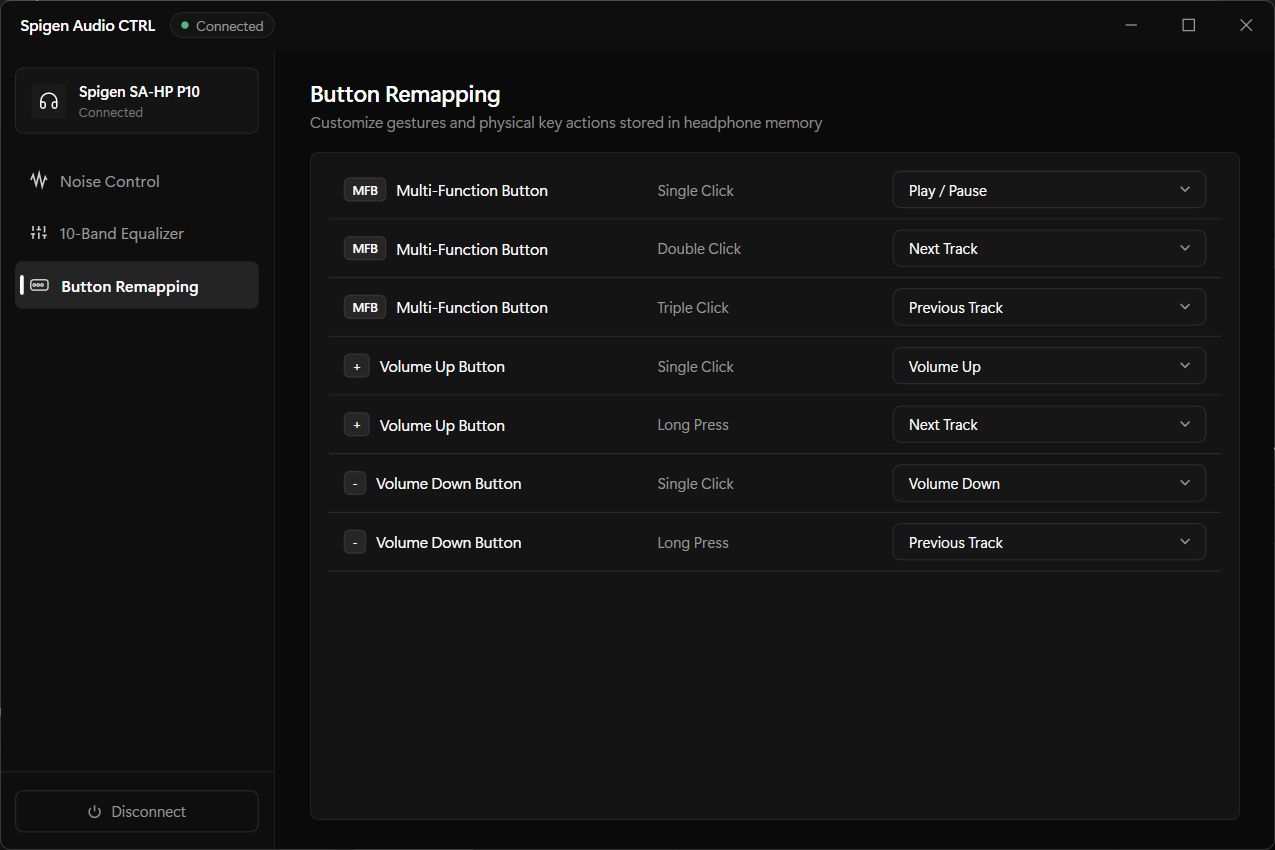
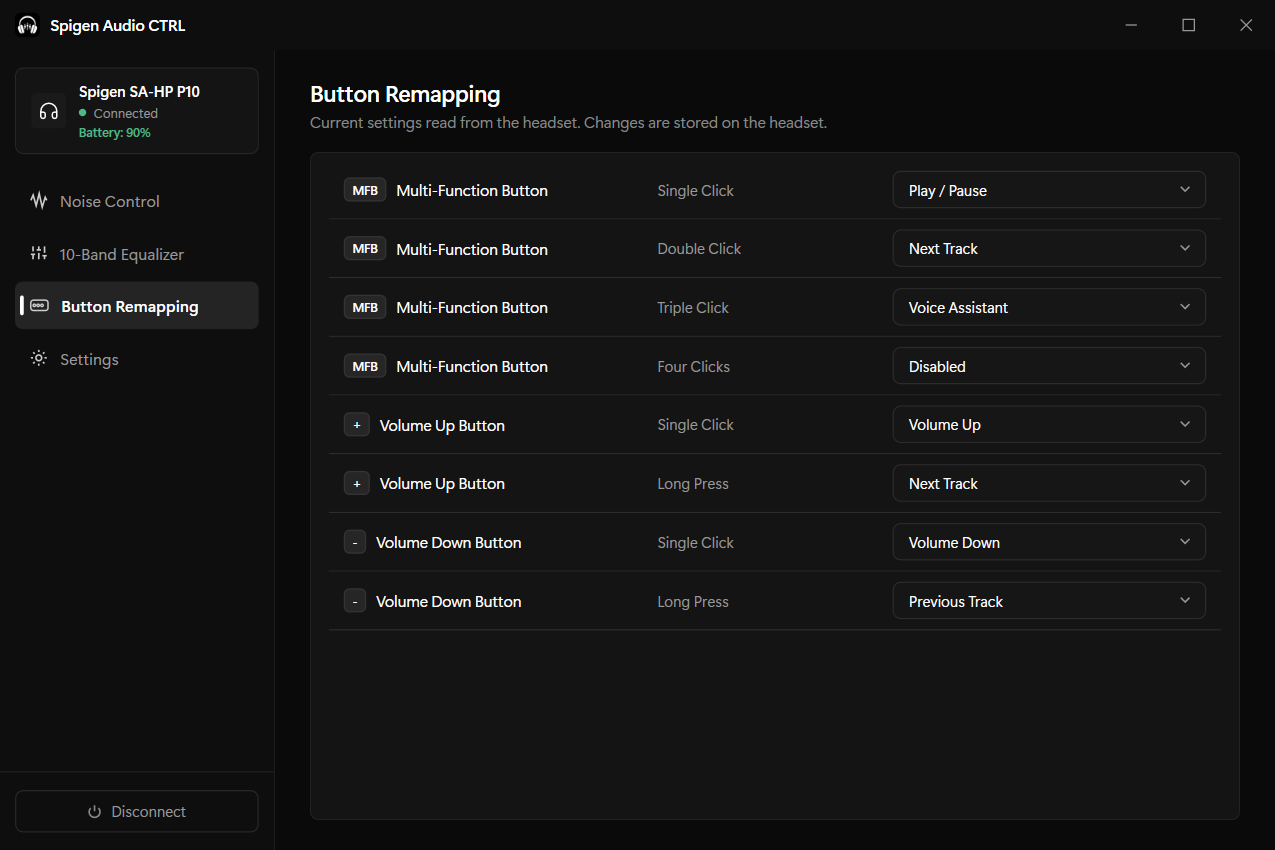
docs: rewrite README for v2 and refresh screenshots
Document the confirmed-state behaviour, full noise control modes, stock-based EQ presets, Find your sound, button remapping, settings, tray and startup, accessibility, the two download variants, CI/signing, the new architecture and the RCSP protocol opcode table. Add Find your sound and Settings screenshots and refresh the existing ones for the new UI.

diff --git a/README.md b/README.md
@@ -10,38 +10,54 @@ An unofficial Windows desktop companion app for the **Spigen SA-HP P10** over-ea
 
 ## Features
 
-**Noise Control**
-- ANC modes: Deep, Adaptive, Commuting, Anti-Wind, Transparency, Off
-- Low-latency Gaming Mode toggle
+**Reads the headset's real state**
+- On connect, the app reads the EQ, noise control mode, gaming mode, button mappings, channel balance, sleep timer and battery from the headset, and shows those, not built-in defaults
+- Every change waits for the headset's confirmation. If a change is rejected or unconfirmed, the app re-reads the headset and shows what it actually has
+- Battery (with charging state), gaming mode, balance and noise control are refreshed every 20 seconds, so changes made with the headset's own buttons show up
 
-**Equalizer & Audiophile Audio Engine**
-- **10-Band Parametric Hardware DSP EQ**: Full control over frequency (20 Hz – 20 kHz), gain (±8 dB), and Q-factor bandwidth ($Q=0.2$ to $5.0$) written directly to headphone memory
-- **Dynamic Anti-Clipping Pre-Amp**: Automatic pre-attenuation calculation ($\min(0\text{ dB}, -\max(\text{Gain}))$) ensuring 100% distortion-free playback with maximum dynamic headroom
-- **Interactive Logarithmic Studio Canvas**: Drag vertically for gain, drag horizontally to sweep center frequency, scroll mouse wheel to widen/narrow Q-factor bandwidth
-- **Selected Band Parametric Inspector**: Fine-tune frequency, gain, and Q-factor sliders with real-time composite filter response curve
-- **Calibrated Audiophile Presets**:
-  - *P10 Audiophile Master (Recommended) — Custom-engineered for P10 hardware: anti-mud cut, pinna gain rise, sibilance taming*
-  - *P10 Dynamic V-Shape Rumble — Sub-bass punch and sparkling air for EDM/Hip-Hop*
-  - *Harman Over-Ear Target 2018 (Benchmark)*
-  - *Diffuse Field Studio Reference*
-  - *Vocal Clarity & Anti-Sibilance (-3.5dB surgical notch at 7.5kHz)*
-  - *Deep Sub-Bass Clean Rumble (45Hz lift with anti-mud cut)*
-  - *Warm Audiophile Soundstage*
-  - *Gaming Spatial & Footstep Enhancement*
-  - *Default Flat (Reference 0dB)*
-- **Harman Target Reference Overlay**: Toggleable visual target curve on the canvas
-- **Custom Preset Storage**: Save, recall, and reset custom parametric tunings
+**Noise Control**
+- Modes: Adaptive, Deep, Commuting, Indoor, Anti-Wind, Transparency, Off
+- Three strength levels for Deep, Commuting and Indoor (the same range Spigen's app offers)
+- Low-latency gaming mode
+
+**Equalizer**
+- 10 peaking filters stored on the headset: frequency 20 Hz to 20 kHz, gain -10 to +8 dB, Q 0.2 to 5.0
+- The headset's custom EQ *replaces* Spigen's built-in tuning instead of stacking on it. Spigen's own presets all re-apply a deep 220 Hz cut against boominess, so the presets here start from that stock tuning:
+  - *Spigen Default, Pop, Bass, Rock, Soft, Classic*: Spigen's presets for this headset
+  - *Signature*: Spigen's tuning refined by about 1 dB (more sub-bass, smoother upper mids, less sibilance, a little air); a judgement call, not a measurement
+  - *Airy, Warm, Relaxed, Vocal, Gaming*: small adjustments on top of Spigen's tuning
+  - *Raw Driver*: no correction, for comparison only
+- **Find your sound**: play any song, then pick between two versions, A and B, that the headset switches between live. Up to 10 choices build a personal curve on top of Spigen's tuning, saved as the "Personal" preset (see [how it works](#find-your-sound))
+- Curve display uses real biquad filter math, with an optional overlay of the stock tuning
+- Automatic headroom: the overall level is lowered by the peak of the combined curve, rounded up to 0.5 dB. For Spigen's default tuning this gives the same -5.5 dB Spigen uses
+- Log-scale frequency control; drag nodes on the curve, scroll to change Q, or use the keyboard
+- Saved presets persist in `%APPDATA%\SpigenAudioCTRL\settings.json`
 
 **Button Remapping**
-- Remap Multi-Function Button: Single, Double, Triple Click
-- Remap Volume keys: Single Click, Long Press
-- Available actions: Play/Pause, Next/Prev Track, Volume, Voice Assistant, Gaming Mode, ANC Cycle
-- Changes are written directly to onboard headphone memory
+- Multi-function button: single, double, triple and four clicks
+- Volume buttons: single click and long press
+- Actions: Play/Pause, Previous/Next Track, Voice Assistant, Volume Up/Down, Gaming Mode, Disabled
+- Gestures the headset reports as unsupported are disabled
+
+**Settings**
+- Channel balance (left/right)
+- Sleep timer: turn the headphones off after 15, 30, 60 or 90 minutes
+- Restore the headset's default settings, or clear its pairing records (both ask for confirmation)
+- Diagnostics: copy the log for a bug report, or open the log folder
+
+**Tray & startup**
+- Closing the window keeps the app in the notification area; right-click the icon to switch noise control, EQ preset or gaming mode
+- Optional launch with Windows, starting minimized to the tray
+- Single instance: launching it again brings the existing window forward
 
 **Connectivity**
-- BLE advertisement scanning — no hardcoded device address required
-- Automatic reconnect on disconnect
-- Battery level from both BLE Battery Service (0x180F) and RCSP TLV
+- Finds the headset by its advertised name, then reconnects directly to the remembered address on later launches
+- Reconnects automatically after the link drops, with backoff, until you press Disconnect
+
+**Accessibility**
+- All controls are reachable by keyboard, with a visible focus outline
+- Screen-reader names on navigation, mode tiles, sliders and the EQ curve
+- EQ curve keyboard control: Left/Right select a band, Up/Down change gain, Shift+Left/Right change frequency, Page Up/Down change width
 
 ---
 
@@ -55,62 +71,112 @@ An unofficial Windows desktop companion app for the **Spigen SA-HP P10** over-ea
 
 ![Equalizer](docs/screenshots/equalizer.png)
 
+**Find your sound**
+
+![Find your sound](docs/screenshots/personal-eq.png)
+
 **Button Remapping**
 
 ![Button Remapping](docs/screenshots/button-remap.png)
 
+**Settings**
+
+![Settings](docs/screenshots/settings.png)
+
 ---
 
-## Requirements
+## Download
 
-- Windows 10 (Build 19041 or later) or Windows 11
-- [.NET 8.0 SDK](https://dotnet.microsoft.com/download/dotnet/8.0)
+Releases come in two variants:
+
+| File | Size | Needs |
+|------|------|-------|
+| `SpigenAudioCTRL-<version>-win-x64.exe` | ~75 MB | Nothing; runs on any Windows 10 (19041+) or 11 PC |
+| `SpigenAudioCTRL-<version>-win-x64-requires-dotnet8.zip` | ~25 MB | The [.NET 8 Desktop Runtime](https://dotnet.microsoft.com/download/dotnet/8.0) |
+
+Most of the smaller build is Microsoft's Windows Runtime projection, which the Bluetooth code needs; WPF apps can't be trimmed.
+
+Releases are not code-signed unless a certificate is configured (see below), so Windows SmartScreen may warn on first launch. Choose **More info** > **Run anyway**.
 
 ---
 
 ## Build
 
-**Standalone executable:**
+Requires the [.NET 8 SDK](https://dotnet.microsoft.com/download/dotnet/8.0).
+
 ```cmd
 build.bat
 ```
 
-Or manually:
-```powershell
-dotnet publish SpigenAudioCTRL.csproj -c Release -r win-x64 --self-contained true -p:PublishSingleFile=true -o dist/
-```
+This runs the tests, then writes both variants:
 
-Output: `dist\SpigenAudioCTRL.exe` (~78 MB, self-contained, no runtime installation required)
+- `dist\SpigenAudioCTRL.exe` (standalone)
+- `dist\requires-dotnet8\SpigenAudioCTRL.exe` (needs the .NET 8 Desktop Runtime)
 
-**Run from source:**
+Run from source:
 ```powershell
 dotnet run
 ```
+
+Run the tests:
+```powershell
+dotnet test tests/SpigenAudioCTRL.Tests/SpigenAudioCTRL.Tests.csproj
+```
+
+### CI and releases
+
+[`.github/workflows/ci.yml`](.github/workflows/ci.yml) runs the tests and builds both variants on every push and pull request; the executables are attached to each run as artifacts. Pushing a tag such as `v2.0.0` also creates a GitHub release with those files.
+
+### Code signing (optional)
+
+To sign release builds, add two repository secrets:
+
+- `SIGNING_CERT_BASE64`: a code-signing certificate (`.pfx`) encoded as base64
+- `SIGNING_CERT_PASSWORD`: its password
+
+The workflow signs both executables with `signtool` and a timestamp when the secret is present, and skips signing otherwise.
 
 ---
 
 ## Architecture
 
-| File | Role |
-|------|------|
-| `BluetoothService.cs` | BLE GATT connection, scanning, characteristic management |
-| `RcspProtocol.cs` | RCSP packet encoding (ANC, EQ, Gaming Mode, Key Mapping, hardware queries) |
-| `MainWindow.xaml.cs` | UI state, EQ canvas rendering, button remapping grid |
-| `App.xaml.cs` | Global unhandled exception handlers |
+| Folder | Contents |
+|--------|----------|
+| `Device/` | `BluetoothService` (BLE connection, reconnect, request/response matching), `RcspProtocol` (framing, encoding, parsing), `HeadsetController` (confirmed headset state shared by the window and tray), `AncModes` |
+| `Audio/` | `EqMath` (filter response, headroom), `EqPresets`, `PresetLibrary`, `SoundTuner` (the A/B "Find your sound" logic) |
+| `Infrastructure/` | Settings, log file, tray icon, startup registration, single instance, dark title bar |
+| `Views/` | Noise control, equalizer, buttons and settings views, and the Find your sound window |
+| `tests/` | xUnit tests, using frames captured from Spigen's app talking to a P10 |
+
+`MainWindow` is only the shell (title bar, navigation, connection status). Views render from `HeadsetController` and send changes through it, so the window and the tray always agree with the headset.
+
+---
+
+## Find your sound
+
+"Find your sound" (the button on the equalizer page) works like the preference tests in OEM headphone apps. You play a song you know well in any app; because the equalizer runs on the headphones, the app can switch your music between two versions live.
+
+It asks about five aspects in turn: bass, body, clarity, brightness and air. For each, the first comparison is "less vs. more" (±3 dB) and the second refines "how much" (1.5 or 4.5 dB in the chosen direction). "Can't tell" keeps the current amount and moves on, so it takes at most 10 choices. A and B are assigned at random, so the louder version isn't always on the same side.
+
+The result is Spigen's tuning plus your adjustments, clamped to the headset's limits and saved as the "Personal" preset. Cancelling restores the equalizer you had before.
 
 ---
 
 ## Protocol
 
-The SA-HP P10 communicates over BLE GATT using a proprietary RCSP framing:
+The SA-HP P10 uses Jieli's RCSP framing on BLE vendor service `A002` (write `0001`, notify `0002`):
 
 ```
-FE DC BA [flags] [opcode] [len_hi] [len_lo] [sn] [payload...] EF
+command:  FE DC BA [flags] [opcode] [len_hi] [len_lo] [sn] [payload...] EF
+response: FE DC BA [flags] [opcode] [len_hi] [len_lo] [status] [sn] [payload...] EF
 ```
 
-- **Write characteristic**: UUID contains `ae01` or `0001`
-- **Notify characteristic**: UUID contains `ae02` or `0002`
-- **Battery**: Standard BLE Battery Service — UUID `0x180F`, Characteristic `0x2A19`
+| Opcode | Use | Payload |
+|--------|-----|---------|
+| `0xC1` | Read ADV info | 32-bit big-endian type mask; response is `[len][type][value]` TLVs (0 battery, 1 name, 2 key settings, 5 work mode / gaming, 12 balance) |
+| `0xC0` | Write ADV info | One TLV, e.g. `04 02 [key] [gesture] [function]` (function 127 = disabled), `02 0C [balance 0-100]` |
+| `0xC5` | System operation | `01` restore default settings, `02` clear pairing records |
+| `0xFF` | Vendor custom | `FE 01 [type]` reads; `17 03 [mode] [scene] [level]` sets ANC; `20 [len] [mode] [master] [freq, gain, Q]...` sets EQ (16-bit LE, gain and Q x100); `14 04 [minutes LE] 00 00` sets the sleep timer (`FFFF` = off; `0` powers off immediately and is never sent) |
 
 ---
 
